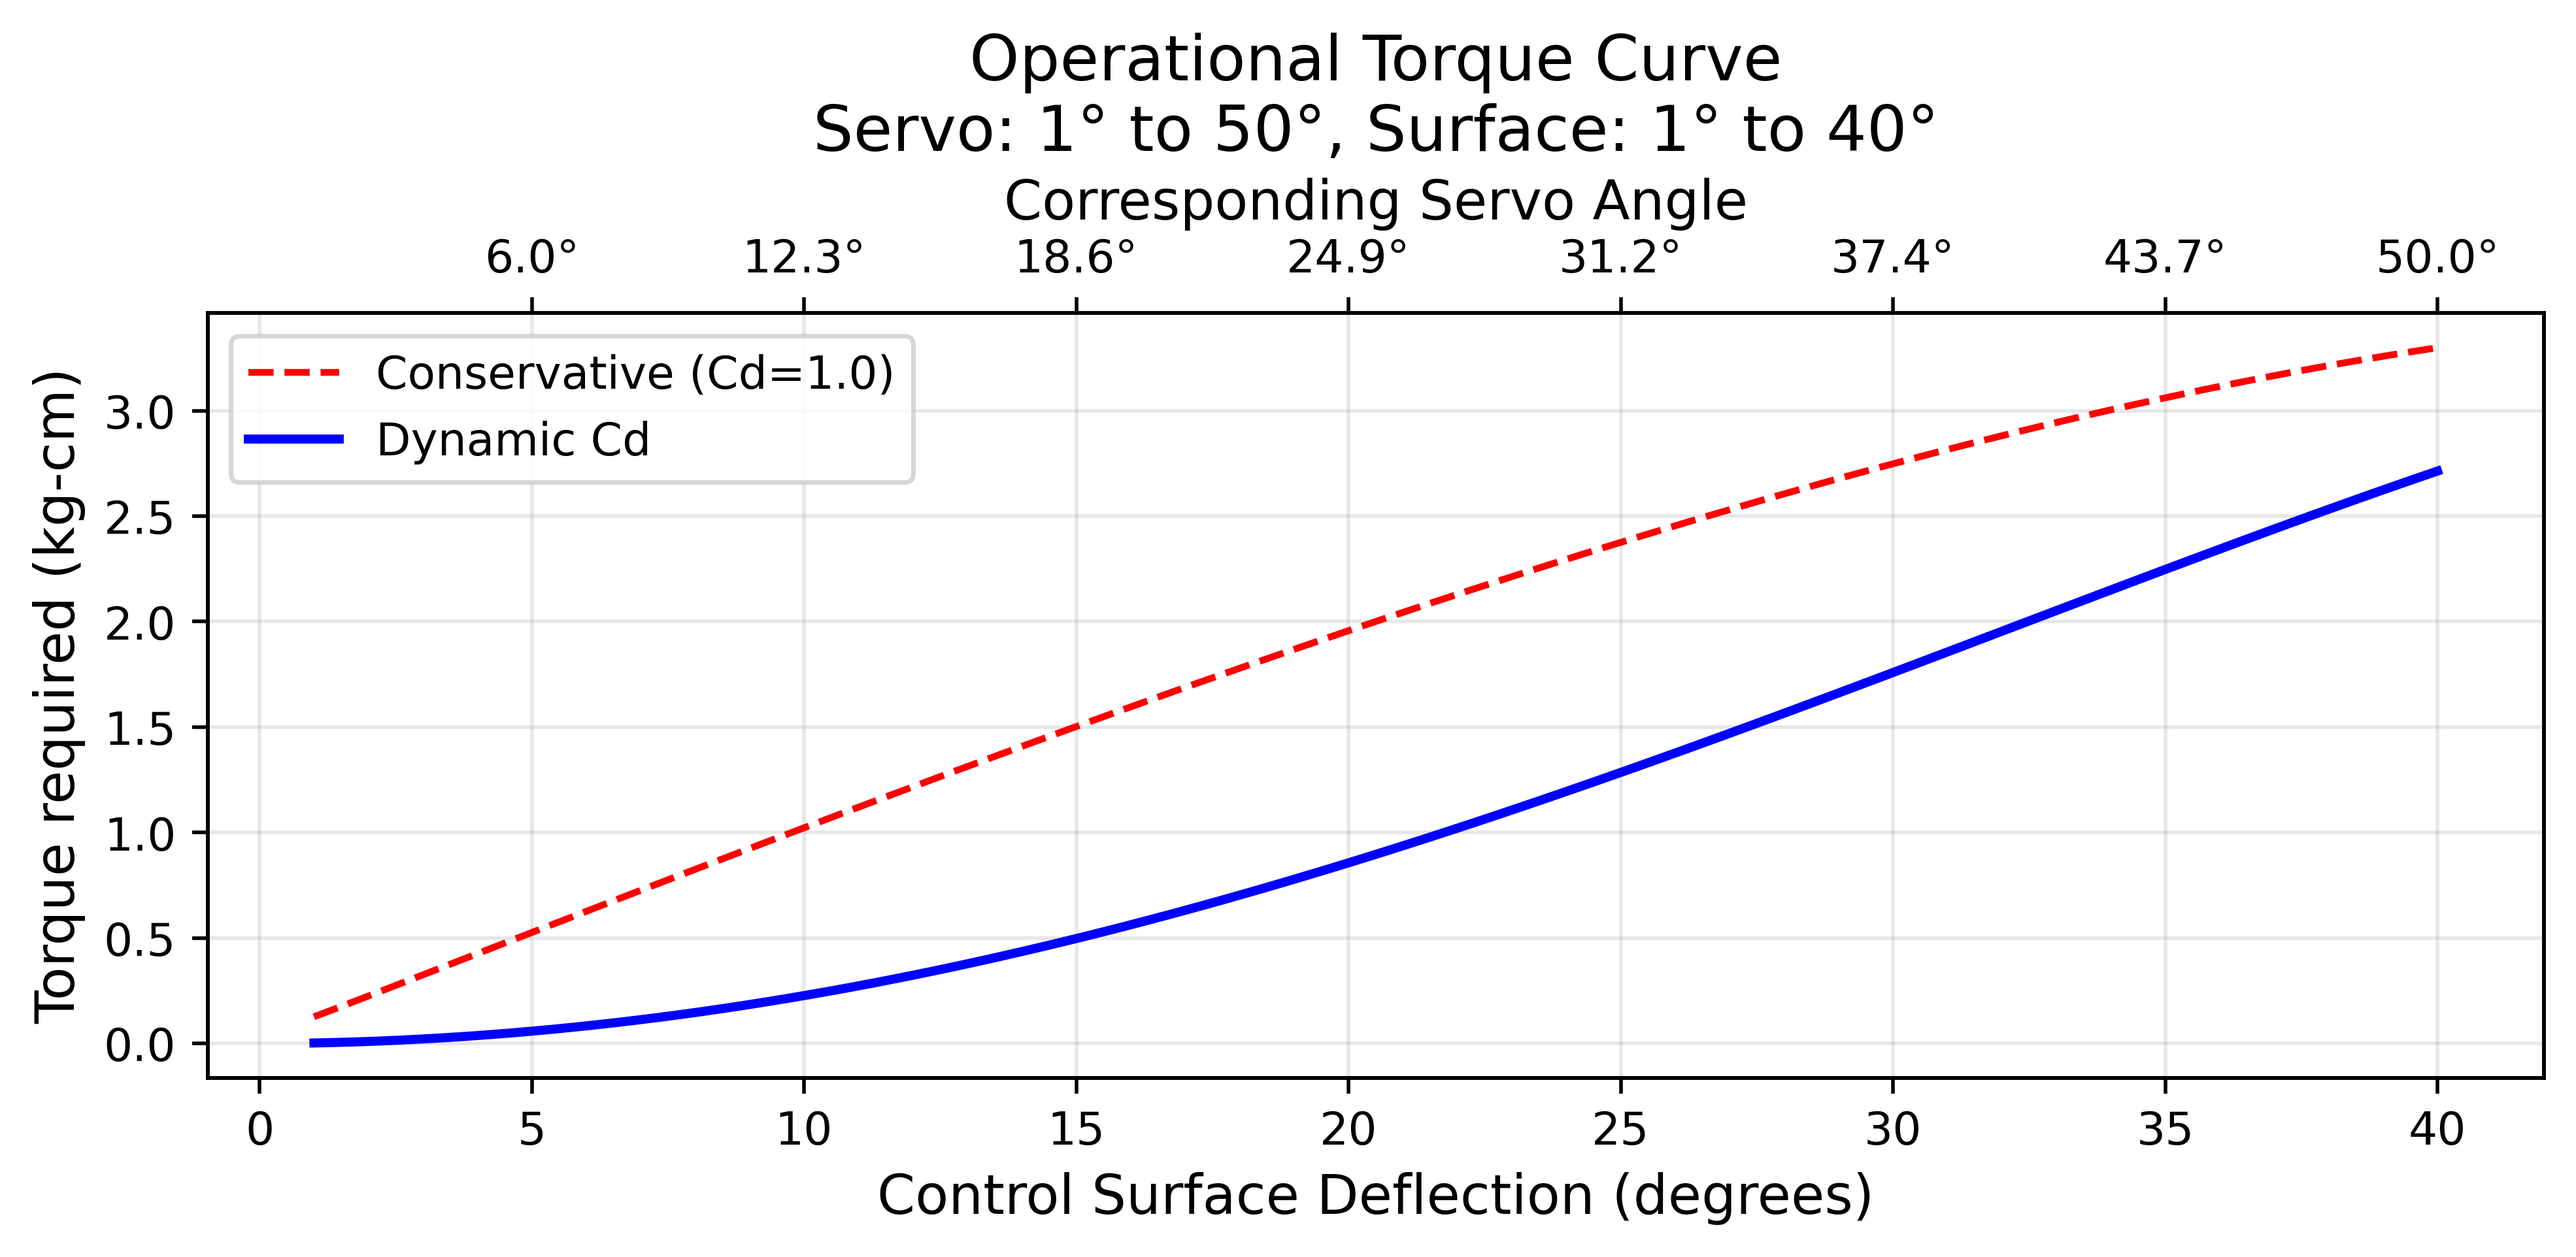
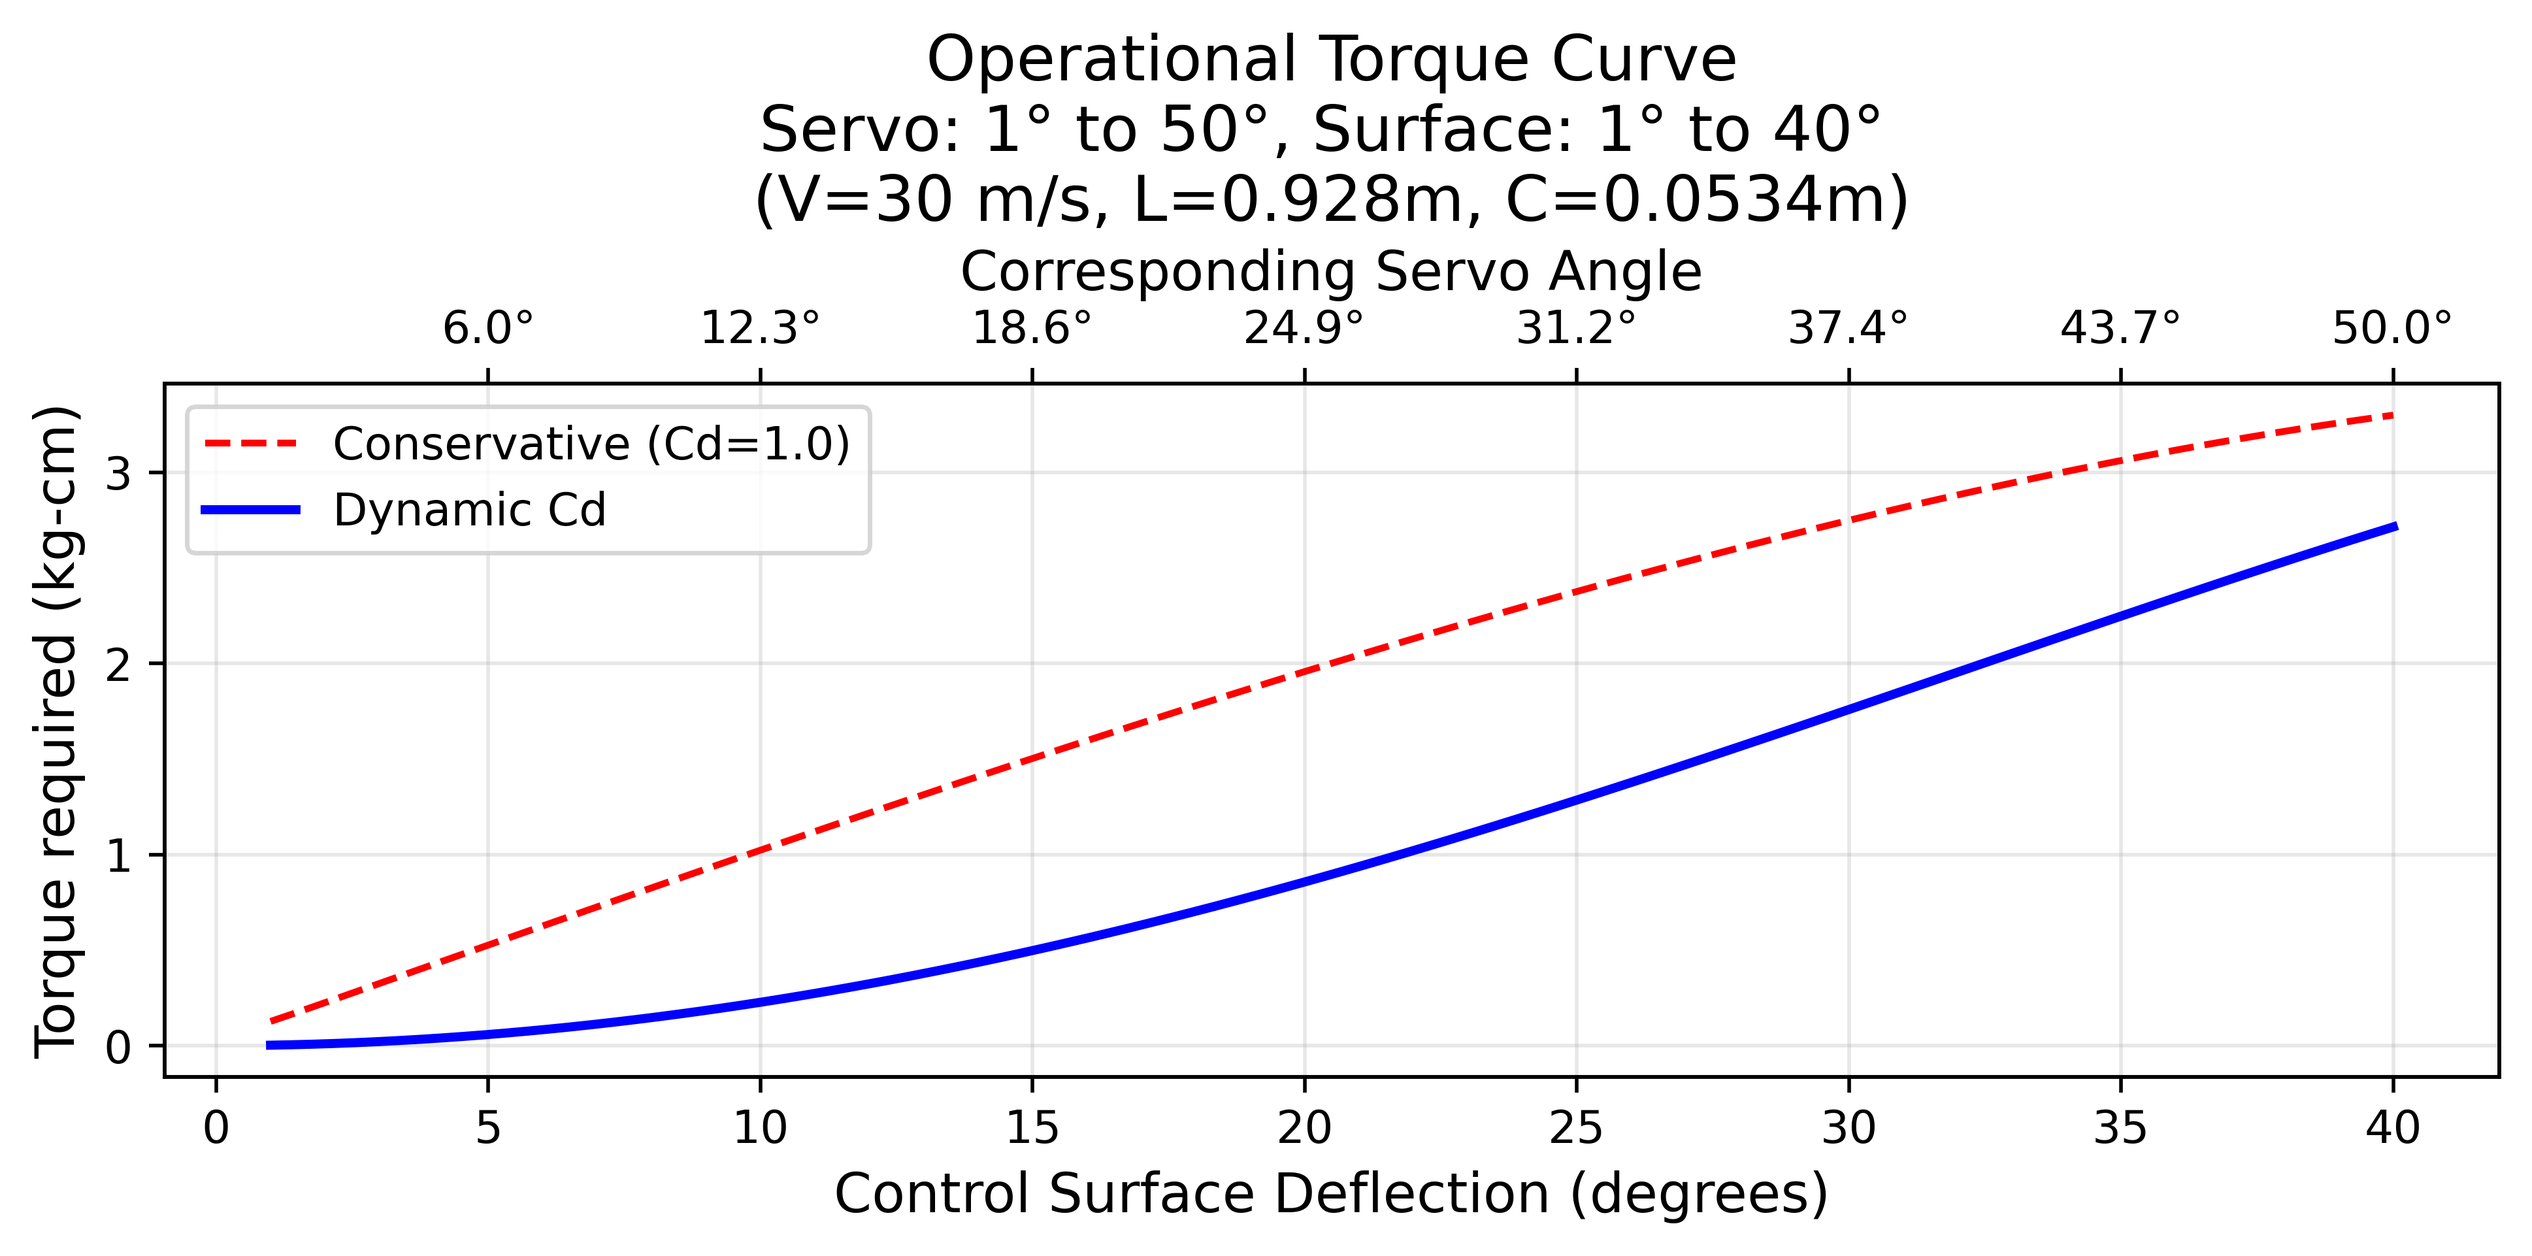
.

diff --git a/CAT 25_26/Servos/servos_v2.py b/CAT 25_26/Servos/servos_v2.py
@@ -210,7 +210,7 @@ def plot_linearised_torque(s_min, s_max, c_min, c_max, params):
     plt.plot(c_angles, torques_dynamic, linestyle='-', linewidth=2, color='blue',
              label='Dynamic Cd')
     
-    plt.title(f"Operational Torque Curve\nServo: {s_min}° to {s_max}°, Surface: {c_min}° to {c_max}°")
+    plt.title(f"Operational Torque Curve\nServo: {s_min}° to {s_max}°, Surface: {c_min}° to {c_max}° \n(V={params['V']} m/s, L={params['L']}m, C={params['C']}m)")
     plt.xlabel("Control Surface Deflection (degrees)")
     plt.ylabel("Torque required (kg-cm)")
     
@@ -257,7 +257,7 @@ def plot_kinematic_torque(s_max, c_max, params):
     ax1.plot(s_angles, torques_dynamic, linestyle='-', linewidth=2, color='blue',
              label='Torque (Dynamic Cd)')
     
-    ax1.set_title(f"True Kinematic Torque Curve\nMax Servo: {s_max}°, Max Surface: {c_max}°")
+    ax1.set_title(f"True Kinematic Torque Curve\nMax Servo: {s_max}°, Max Surface: {c_max}° \n(V={params['V']} m/s, L={params['L']}m, C={params['C']}m)")
     ax1.set_xlabel("Servo Angle (degrees)")
     ax1.set_ylabel("Torque required (kg-cm)")
     
